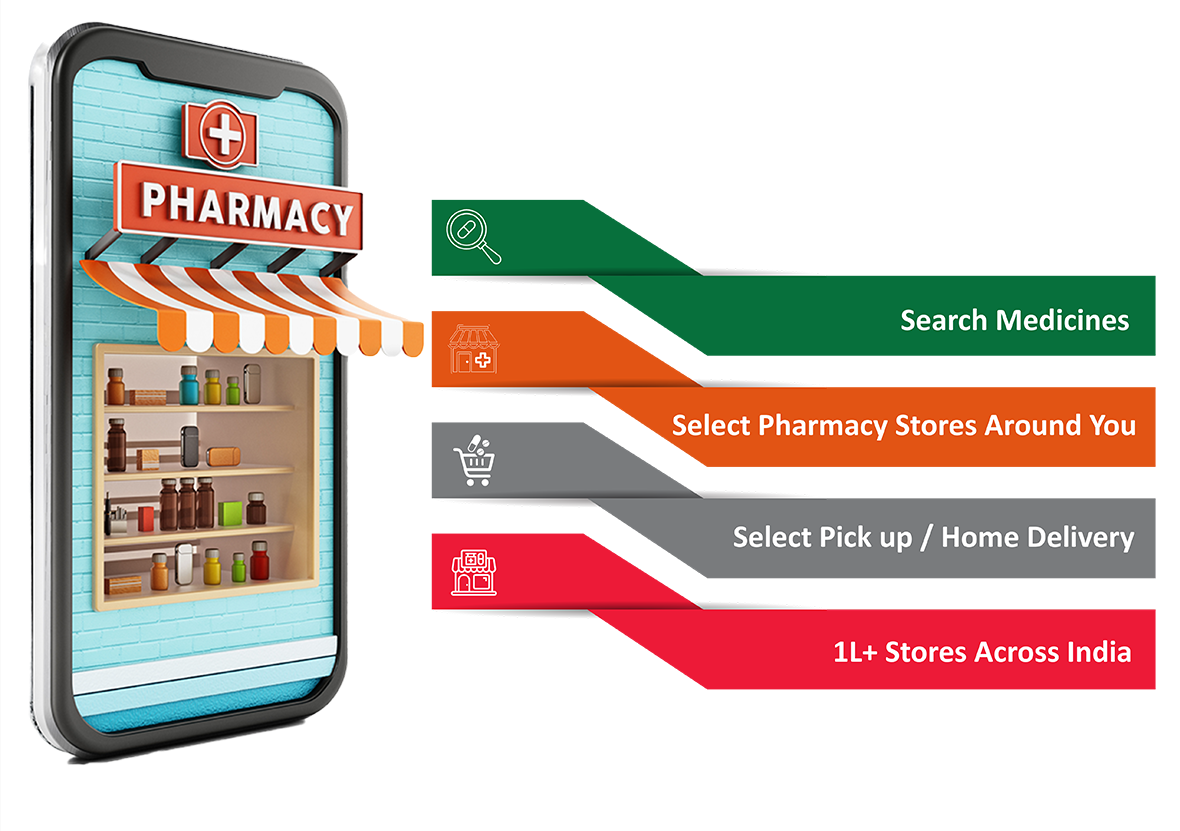
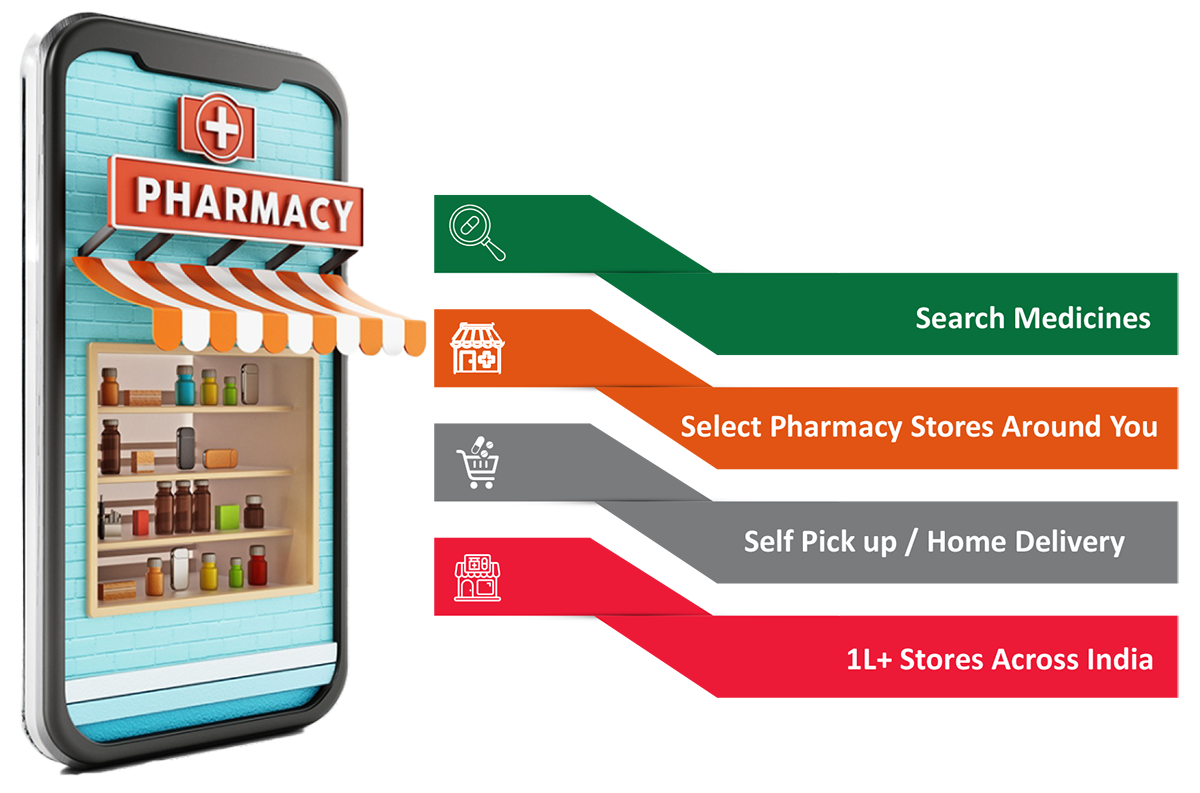
Client new changes

diff --git a/sign-up.html b/sign-up.html
@@ -57,7 +57,7 @@
 
     <div class="registration-section animation-element fadeUp animation-element-slow">
         <div class="container">
-            <h2> List You Profile And Serve <br/> Bilion of Indians </h2>
+            <h2> List Your Profile And Serve <br/> Bilion of Indians </h2>
             <h3> Become a @Heal Partner <br/> a Maximize Your Growth Across India  </h3>
             <div class="registratin-btn">
                 <a href="#register-form" class="o-button"> Free Registration </a>

diff --git a/css/style.css b/css/style.css
@@ -4503,6 +4503,9 @@ footer .footer-link ul li a:hover::after {
   .offering-section .offering-btm .offering-right.offering-right-btm .service-card {
     width: 100%;
   }
+  .offering-section .offering-btm .offering-right.offering-right-btm .service-card a {
+    width: 100%;
+  }
 }
 @media (max-width: 1279.98px) {
   .offering-section .offering-btm .offering-right {

diff --git a/sass/component/_about-us.scss b/sass/component/_about-us.scss
@@ -121,6 +121,10 @@
 
                     @include media-down(mobile) {
                         width: 100%;
+
+                        a {
+                            width: 100%;
+                        }
                     }
 
                 }
